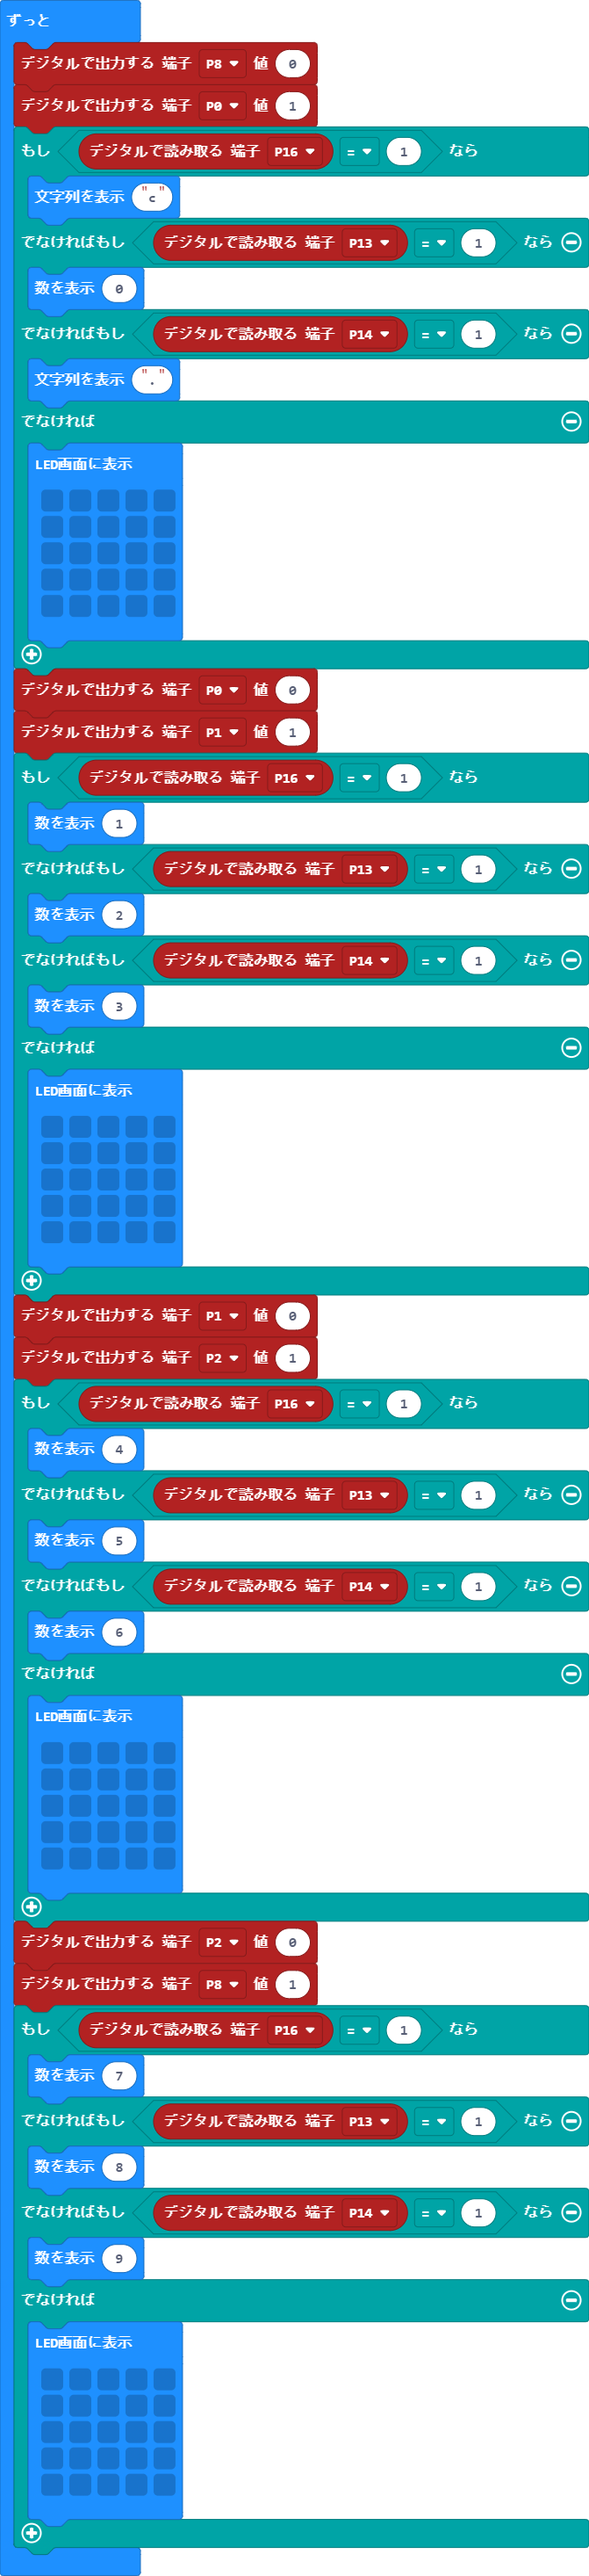
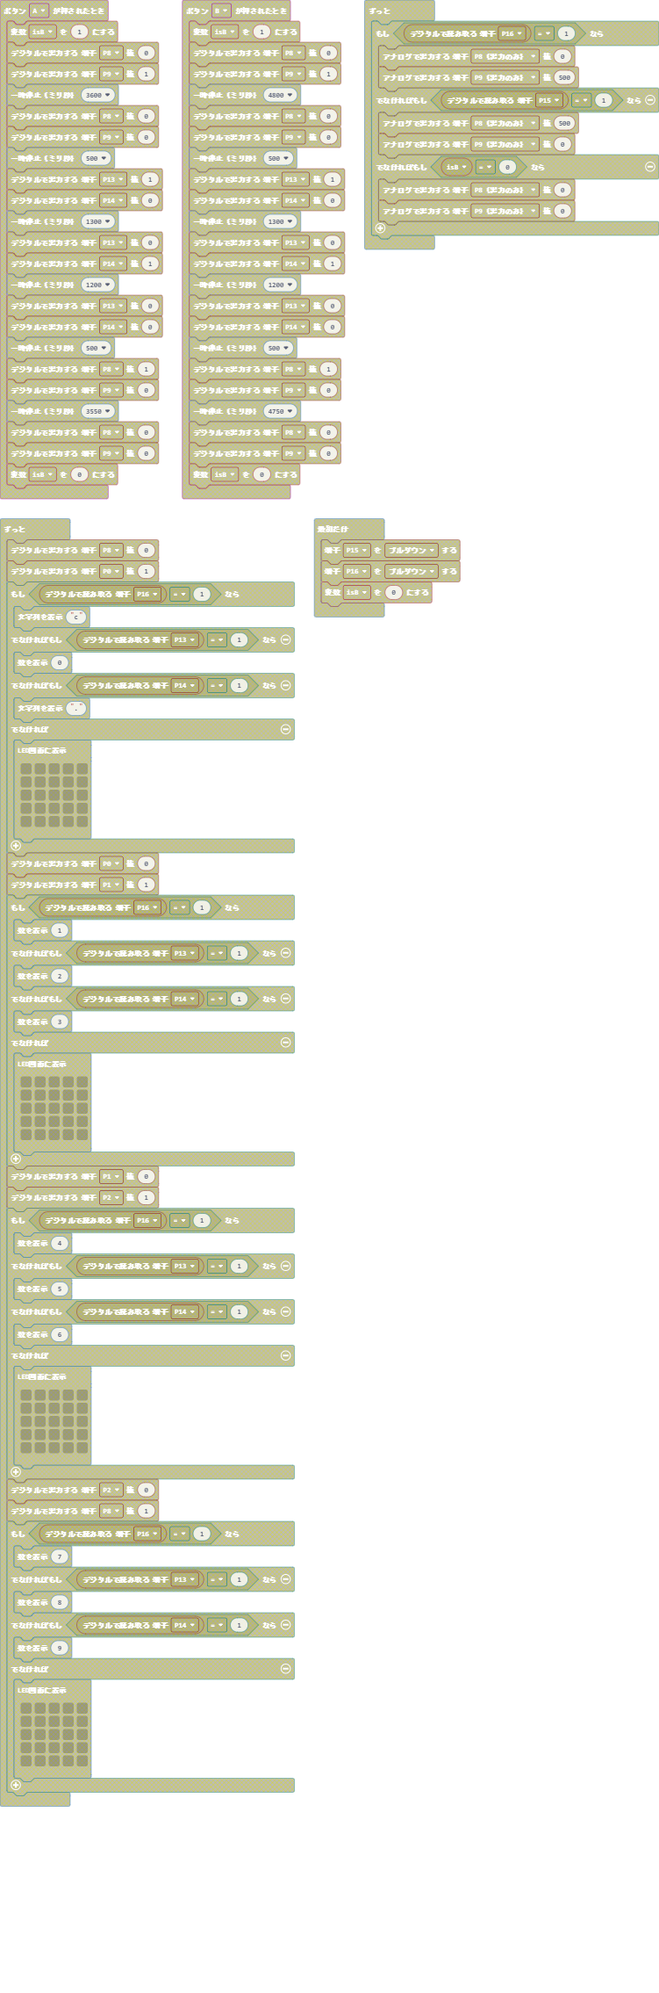
更新 main.blocks, main.ts

diff --git a/main.ts b/main.ts
@@ -1,4 +1,56 @@
-input.onButtonPressed(Button.A, function () {
+/**
+ * keypad
+ * 
+ * pin8
+ * 
+ * pin16
+ * 
+ * pin13
+ * 
+ * pin14
+ * 
+ * pin0
+ * 
+ * pin1
+ * 
+ * pin2
+ * 
+ * motor
+ * 
+ * pin5
+ * 
+ * pin11
+ * 
+ * pin12
+ * 
+ * pin15
+ */
+// keypad
+// 
+// pin8
+// 
+// pin0
+// 
+// pin16
+// 
+// pin13
+// 
+// pin14
+// 
+// pin1
+// 
+// pin2
+// 
+// motor
+// 
+// pin5
+// 
+// pin11
+// 
+// pin12
+// 
+// pin15
+function ame1 () {
     isB = 1
     pins.digitalWritePin(DigitalPin.P8, 0)
     pins.digitalWritePin(DigitalPin.P9, 1)
@@ -21,8 +73,8 @@ input.onButtonPressed(Button.A, function () {
     pins.digitalWritePin(DigitalPin.P8, 0)
     pins.digitalWritePin(DigitalPin.P9, 0)
     isB = 0
-})
-input.onButtonPressed(Button.B, function () {
+}
+function ame2 () {
     isB = 1
     pins.digitalWritePin(DigitalPin.P8, 0)
     pins.digitalWritePin(DigitalPin.P9, 1)
@@ -45,23 +97,9 @@ input.onButtonPressed(Button.B, function () {
     pins.digitalWritePin(DigitalPin.P8, 0)
     pins.digitalWritePin(DigitalPin.P9, 0)
     isB = 0
-})
+}
 let isB = 0
-pins.setPull(DigitalPin.P15, PinPullMode.PullDown)
-pins.setPull(DigitalPin.P16, PinPullMode.PullDown)
 isB = 0
-basic.forever(function () {
-    if (pins.digitalReadPin(DigitalPin.P16) == 1) {
-        pins.analogWritePin(AnalogPin.P8, 0)
-        pins.analogWritePin(AnalogPin.P9, 500)
-    } else if (pins.digitalReadPin(DigitalPin.P15) == 1) {
-        pins.analogWritePin(AnalogPin.P8, 500)
-        pins.analogWritePin(AnalogPin.P9, 0)
-    } else if (isB == 0) {
-        pins.analogWritePin(AnalogPin.P8, 0)
-        pins.analogWritePin(AnalogPin.P9, 0)
-    }
-})
 basic.forever(function () {
     pins.digitalWritePin(DigitalPin.P8, 0)
     pins.digitalWritePin(DigitalPin.P0, 1)
@@ -84,8 +122,10 @@ basic.forever(function () {
     pins.digitalWritePin(DigitalPin.P1, 1)
     if (pins.digitalReadPin(DigitalPin.P16) == 1) {
         basic.showNumber(1)
+        ame1()
     } else if (pins.digitalReadPin(DigitalPin.P13) == 1) {
         basic.showNumber(2)
+        ame2()
     } else if (pins.digitalReadPin(DigitalPin.P14) == 1) {
         basic.showNumber(3)
     } else {
